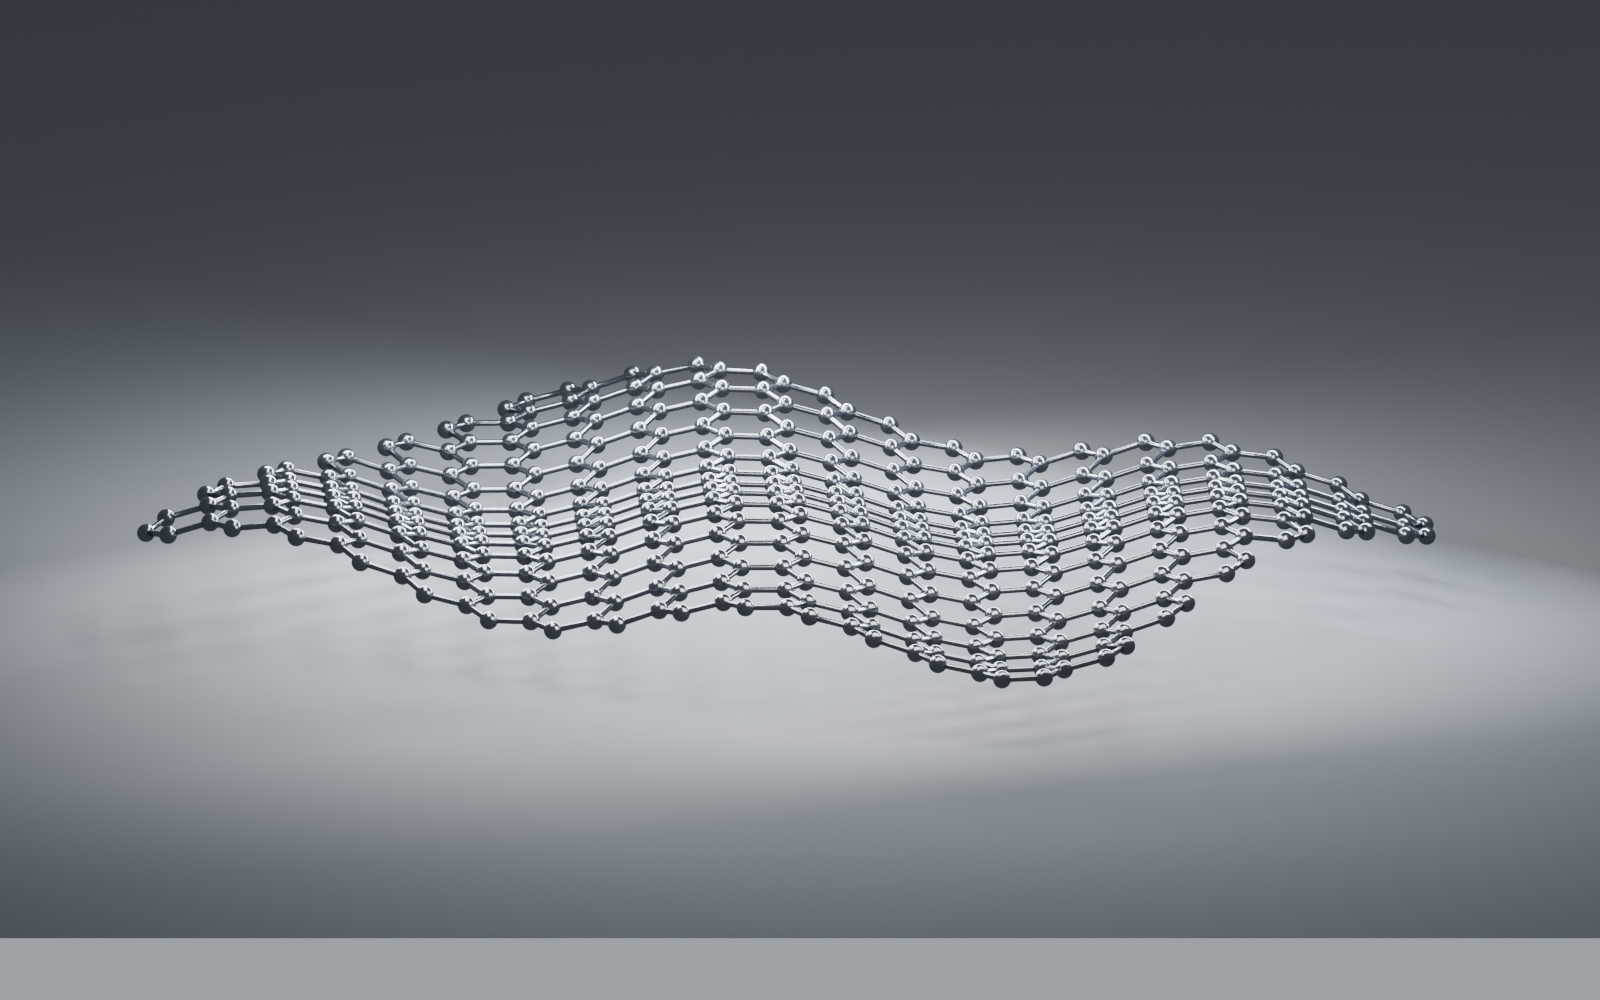
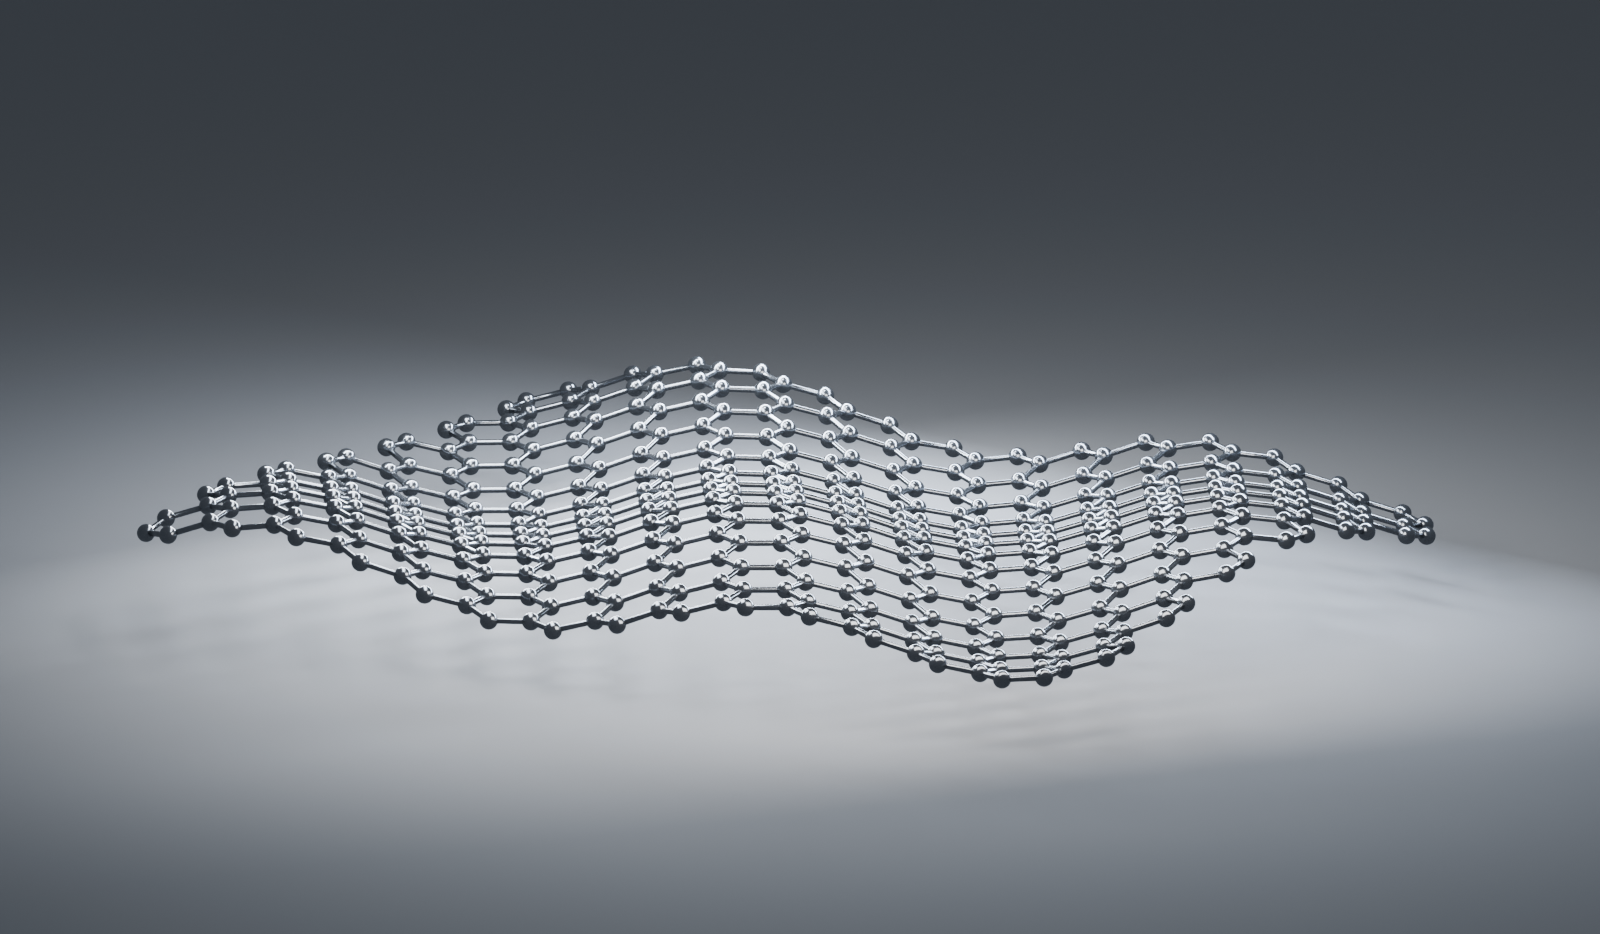
Update graphene and add CVD growth illustration

Changed region(s): [[0.0625, 0.3415, 1.0, 0.9004], [0.0, 0.9315, 1.0, 1.0]]

diff --git a/research.md b/research.md
@@ -23,8 +23,13 @@ The search for a broader range of properties also leads us to **2D nitride-based
 With this growing range of building blocks, we can move from selecting individual materials to combining their strengths. Like **Lego bricks**, selected atomic layers can be stacked into van der Waals heterostructures. Each layer contributes its own properties, while interactions across interfaces create additional possibilities. By designing these combinations, we explore new physics and develop device functions beyond what a single material can achieve.
 
 <figure class="research-figure">
-  <img src="{{ '/assets/images/Schematic-diagram/graphene.png' | relative_url }}" alt="Schematic illustration of graphene" class="research-image" width="1600" height="1000" loading="lazy">
+  <img src="{{ '/assets/images/Schematic-diagram/graphene.png' | relative_url }}" alt="Schematic illustration of graphene" class="research-image" width="1600" height="934" loading="lazy">
   <figcaption class="research-caption">Schematic illustration of graphene</figcaption>
+</figure>
+
+<figure class="research-figure">
+  <img src="{{ '/assets/images/Schematic-diagram/cvd-2d-material-growth.png' | relative_url }}" alt="Schematic illustration of CVD growth of 2D materials" class="research-image" width="1600" height="924" loading="lazy">
+  <figcaption class="research-caption">Schematic illustration of CVD growth of 2D materials</figcaption>
 </figure>
 
 ---

diff --git a/zh/research.md b/zh/research.md
@@ -23,8 +23,13 @@ permalink: /zh/research/
 隨著可用的材料愈來愈多，我們也能把不同材料的優點結合起來，這些原子層可以像樂高積木一樣堆疊，形成凡得瓦異質結構，每一層保有自身的特性，層與層之間的交互作用則可能帶來新的物理行為，透過設計這些組合，我們探索新的物理現象，也開發單一材料難以實現的元件功能。
 
 <figure class="research-figure">
-  <img src="{{ '/assets/images/Schematic-diagram/graphene.png' | relative_url }}" alt="石墨烯示意圖" class="research-image" width="1600" height="1000" loading="lazy">
+  <img src="{{ '/assets/images/Schematic-diagram/graphene.png' | relative_url }}" alt="石墨烯示意圖" class="research-image" width="1600" height="934" loading="lazy">
   <figcaption class="research-caption">石墨烯示意圖</figcaption>
+</figure>
+
+<figure class="research-figure">
+  <img src="{{ '/assets/images/Schematic-diagram/cvd-2d-material-growth.png' | relative_url }}" alt="CVD成長 2D材料示意圖" class="research-image" width="1600" height="924" loading="lazy">
+  <figcaption class="research-caption">CVD成長 2D材料示意圖</figcaption>
 </figure>
 
 ---
